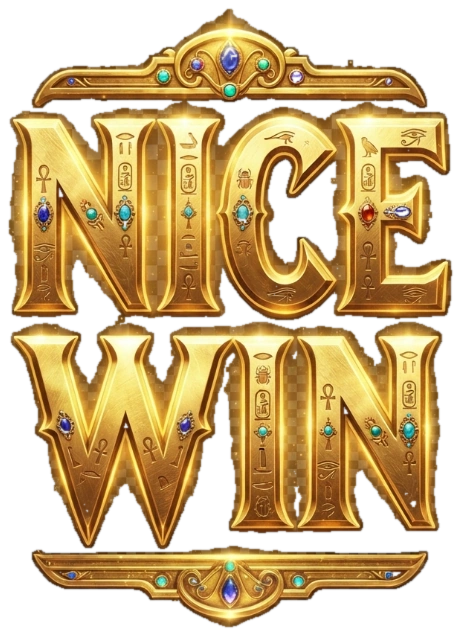
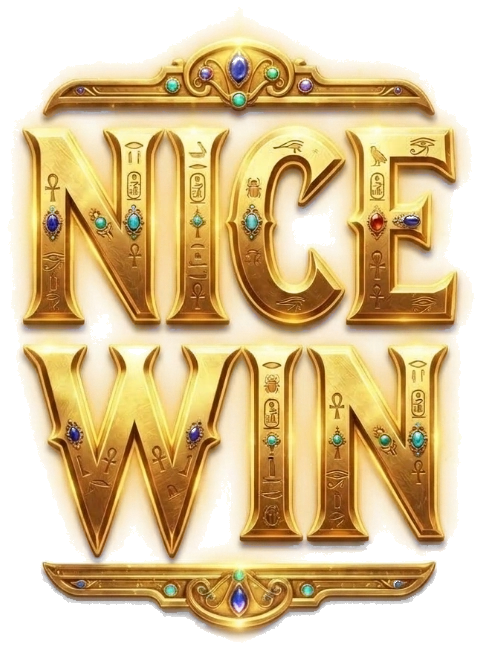
Fix Cleopatra NICE WIN title cutout

diff --git a/themes/cleopatra.js b/themes/cleopatra.js
@@ -20,7 +20,7 @@ window.SLOT_GAME_CONFIG = {
     fogOverlay: 'assets/cleopatra/effects/fog.webp?v=1',
     niceWinBackground: 'assets/cleopatra/effects/nice-win-background.webp?v=1',
     niceWinSparkles: 'assets/cleopatra/effects/nice-win-sparkles.webp?v=1',
-    niceWinTitle: 'assets/cleopatra/effects/nice-win-title.webp?v=3',
+    niceWinTitle: 'assets/cleopatra/effects/nice-win-title.webp?v=nicewin-whitebg-20260925-1517',
     niceWinAmountFrame: 'assets/cleopatra/effects/nice-win-amount-frame.webp?v=1',
     indicators: {
       balance: 'assets/cleopatra/indicators/balance.webp?v=2',

diff --git a/cleopatra.html b/cleopatra.html
@@ -74,7 +74,7 @@
     </div>
   </div>
   <script src="phaser.min.js?v=4.2.1"></script>
-  <script src="themes/cleopatra.js?v=balance-mobile-20260925-1438"></script>
+  <script src="themes/cleopatra.js?v=cleopatra-nicewin-whitebg-20260925-1517"></script>
   <script src="main.js?v=cleopatra-symbol-fit-1"></script>
 </body>
 </html>
